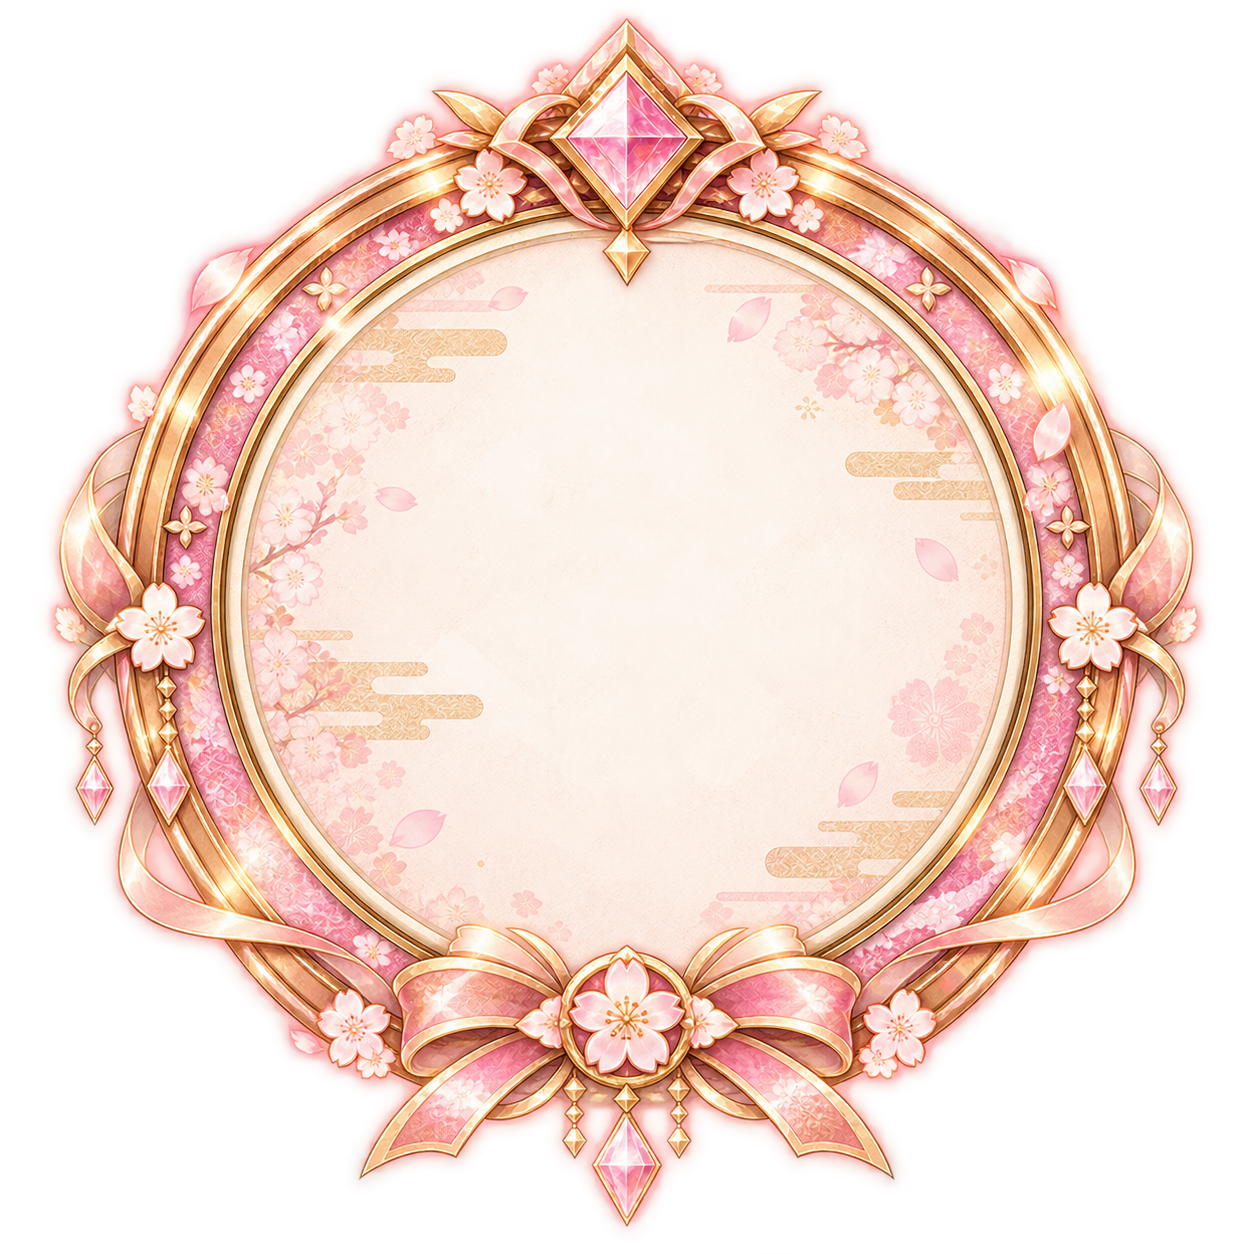
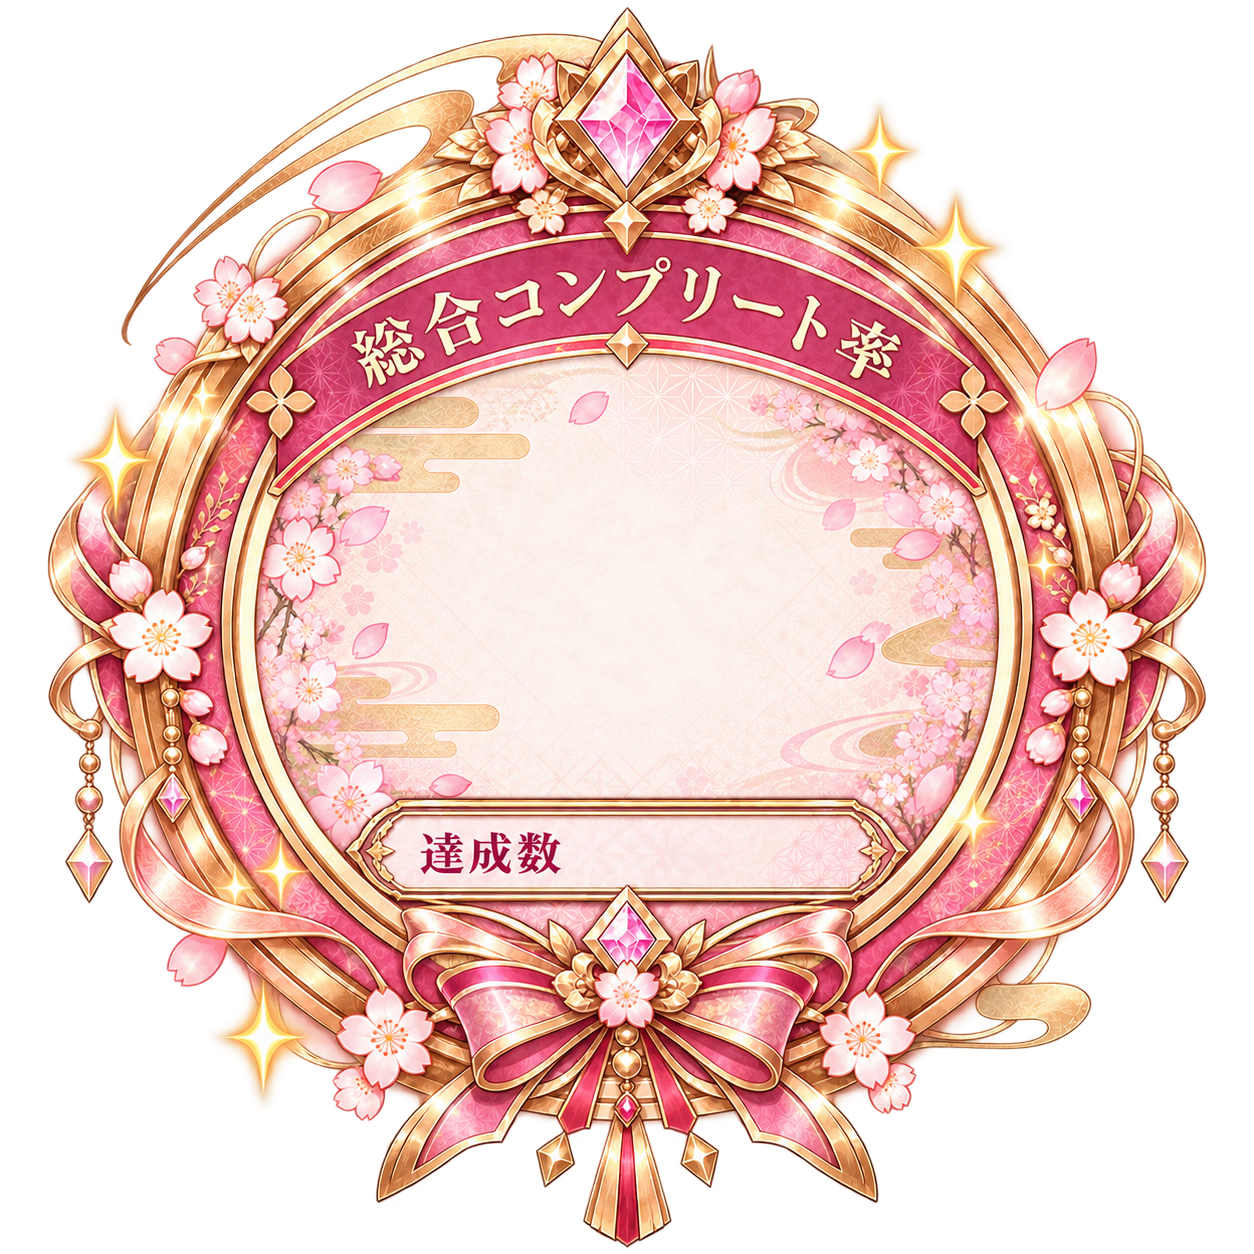
メダルを完成済みPNG+数値のみCanvas合成方式に刷新（4テーマ全て）
新しいメダル枠PNG（「総合コンプリート率」バナー・「達成数」プレートまで
焼き込み済み）に差し替え、Canvas側は総合%の数値と達成数のcompleted/total
だけを重ねる構成に書き換えた。

- SHARE_MEDAL_LAYOUT: メダルPNG基準の正規化座標(0〜1)。%の数値は
  signLeftX（%記号の固定位置）を右端としてtextAlign="right"で描画し、
  桁数が変わっても%の位置が一切動かないようにした（%記号自体もPNGに
  焼き込まれていないため同じ仕組みでCanvas描画）。4テーマ共通の座標
- SHARE_MEDAL_THEMES: テーマごとの数値グラデーション(暗色→金→
  ハイライトの多段階)・縁取り色・影色・達成数の文字色をまとめた設定
- drawGoldNumber(): 外側シャドウ→濃い縁取り→明るい縁取り→グラデーション
  本体→細いハイライト縁取りの順で重ね描きし、参考画像のような立体的な
  金文字を実現
- 旧描画(リボンバナー・「達成数」文字・ラベル)との二重表示を防ぐため、
  drawLabelBanner関数とtheme.bannerColors設定を完全に削除
- drawShareCard()にdata.themeKeyを追加し、document.fonts.readyを
  描画直前に保証（Safari等でのフォント未読込による字形崩れ対策）
- 画像読み込み失敗時は従来のCanvas描画（二重リング等）へのフォール
  バックを維持（意図的に不正なパスを与えて動作確認済み）

0/9/82/100%・達成数0/620〜620/620のテストケースで、%記号の位置が
ピクセル単位で完全に固定されることを確認済み（診断スクリプトで
0〜100%間の差分ピクセルを検証）。
Claude-Session: https://claude.ai/code/session_01K3eMRAeT6oYS9BRu22swvm

diff --git a/js/share-card.js b/js/share-card.js
@@ -58,7 +58,7 @@ const SHARE_THEME_TOKENS = {
 // 未設定（null）のテーマは従来通りtheme.panel（生成り）のままになる
 const SHARE_MEDAL_DISC_DEFAULT = {
   medalDisc: null, medalPercentColor: null, medalLabelColor: null, medalDoneColor: null,
-  medalFrame: null, bannerColors: null,
+  medalFrame: null,
 };
 const SHARE_THEMES = {
   navyGold: {
@@ -79,8 +79,6 @@ const SHARE_THEMES = {
     // メダルの固定装飾（二重リング・宝石・リボン）をPNGフレームに置き換える版。
     // 読み込みに失敗した場合はnull扱いとなり、上のmedalDisc設定によるCanvas描画にフォールバックする
     medalFrame: "assets/share-ui/medal-frame_navy-gold.png",
-    // 「総合コンプリート率」ラベルを乗せるリボンバナーの配色（赤系）
-    bannerColors: { from: "#d97b5c", to: "#a8412c", stroke: "#7a3320" },
     ...SHARE_THEME_TOKENS,
   },
   sakuraPink: {
@@ -305,6 +303,132 @@ const shareMedalFrameCache = new Map(); // key: themeKey -> Promise<HTMLImageEle
 
 // メダル中央の生成り円の位置・半径（フレーム画像の一辺に対する比率。全テーマ共通の構図）
 const MEDAL_FRAME_CIRCLE = { cx: 0.4753, cy: 0.4896, r: 0.2967 };
+
+// メダルPNG（drawImageで敷いた矩形＝frameX/frameY/drawW/drawH）を基準にした
+// 0〜1の正規化座標。「総合コンプリート率」「%」「達成数」の文字はPNG側に
+// 焼き込み済みのため、Canvasは数値だけをこの座標へ重ねる。4テーマとも
+// PNGの構図（円・バナー・達成数プレートの位置）が共通なため、座標もテーマ間で共通
+const SHARE_MEDAL_LAYOUT = {
+  percentage: {
+    // "%"はPNGに焼き込まれていないため、Canvas側で固定位置に描画する。
+    // signLeftXは"%"の左端（常に固定）。数値はここを右端としてtextAlign="right"で
+    // 左方向へ伸ばすため、桁数が変わっても%の位置は動かない
+    signLeftX: 0.615,
+    baselineY: 0.512,
+    fontSizeRatio: 0.185,
+    signFontSizeRatio: 0.115,
+    gapRatio: 0.01,
+  },
+  achievement: {
+    // "達成数"の文字と専用プレートはPNG側。空欄部分の中央にcompleted / totalを重ねる
+    centerX: 0.598,
+    baselineY: 0.678,
+    fontSizeRatio: 0.044,
+  },
+};
+
+// メダル数値の金属グラデーション・縁取り・達成数の文字色をテーマごとにまとめた設定。
+// 座標・fontSizeはSHARE_MEDAL_LAYOUTで共通のため、ここではテーマごとの色だけを持つ
+const SHARE_MEDAL_THEMES = {
+  navyGold: {
+    numberGradient: [
+      { stop: 0,    color: "#fffdf0" },
+      { stop: 0.25, color: "#fff3b0" },
+      { stop: 0.5,  color: "#f7d36d" },
+      { stop: 0.75, color: "#e4aa35" },
+      { stop: 0.9,  color: "#fff0a0" },
+      { stop: 1,    color: "#b97819" },
+    ],
+    strokeDark: "#7d4810",
+    strokeLight: "#e4ad3e",
+    highlightStroke: "rgba(255,255,230,0.75)",
+    shadowColor: "rgba(70,35,5,0.65)",
+    achievementColor: "#f2e9d3", // 生成り〜淡い金
+  },
+  sakuraPink: {
+    numberGradient: [
+      { stop: 0,    color: "#fff7f5" },
+      { stop: 0.25, color: "#ffd9c9" },
+      { stop: 0.5,  color: "#f0ac8f" },
+      { stop: 0.75, color: "#d97b5c" },
+      { stop: 0.9,  color: "#ffe3d0" },
+      { stop: 1,    color: "#a8543c" },
+    ],
+    strokeDark: "#7a3320",
+    strokeLight: "#e88a5e",
+    highlightStroke: "rgba(255,240,235,0.8)",
+    shadowColor: "rgba(90,30,15,0.55)",
+    achievementColor: "#7a1f3d", // 濃いローズピンク〜赤紫
+  },
+  skyBlue: {
+    numberGradient: [
+      { stop: 0,    color: "#ffffff" },
+      { stop: 0.25, color: "#eef6fb" },
+      { stop: 0.5,  color: "#cfe3ee" },
+      { stop: 0.75, color: "#9db8c8" },
+      { stop: 0.9,  color: "#f5fafd" },
+      { stop: 1,    color: "#7a95a5" },
+    ],
+    strokeDark: "#5a7080",
+    strokeLight: "#cfe0ea",
+    highlightStroke: "rgba(255,255,255,0.85)",
+    shadowColor: "rgba(40,60,75,0.5)",
+    achievementColor: "#1f4d6b", // 濃い青
+  },
+  forestGreen: {
+    numberGradient: [
+      { stop: 0,    color: "#fffbe8" },
+      { stop: 0.25, color: "#f2e2a0" },
+      { stop: 0.5,  color: "#d8b768" },
+      { stop: 0.75, color: "#a8823c" },
+      { stop: 0.9,  color: "#f5e8b0" },
+      { stop: 1,    color: "#7a5c26" },
+    ],
+    strokeDark: "#5c4318",
+    strokeLight: "#c9a34e",
+    highlightStroke: "rgba(255,250,220,0.75)",
+    shadowColor: "rgba(50,35,5,0.6)",
+    achievementColor: "#f2e9d3", // 生成り〜淡い金
+  },
+};
+
+// SSRカード風の立体的な金文字を描画する（外側シャドウ→濃い縁取り→明るい縁取り→
+// グラデーション本体→細いハイライト縁取り、の順で重ね描き）。%記号にも同じ関数を使う
+function drawGoldNumber(ctx, text, x, y, fontSizePx, align, mt) {
+  ctx.save();
+  ctx.textAlign = align;
+  ctx.textBaseline = "alphabetic";
+  ctx.font = `700 ${Math.round(fontSizePx)}px ${SERIF}`;
+  ctx.lineJoin = "round";
+
+  // ①外側シャドウ＋②濃い金の外縁
+  ctx.shadowColor = mt.shadowColor;
+  ctx.shadowBlur = fontSizePx * 0.09;
+  ctx.shadowOffsetY = fontSizePx * 0.03;
+  ctx.strokeStyle = mt.strokeDark;
+  ctx.lineWidth = fontSizePx * 0.13;
+  ctx.strokeText(text, x, y);
+
+  // ③明るい金の内縁（影は不要なので消す）
+  ctx.shadowColor = "transparent";
+  ctx.shadowBlur = 0;
+  ctx.strokeStyle = mt.strokeLight;
+  ctx.lineWidth = fontSizePx * 0.06;
+  ctx.strokeText(text, x, y);
+
+  // ④本体（縦グラデーション）
+  const grad = ctx.createLinearGradient(x, y - fontSizePx * 0.78, x, y + fontSizePx * 0.12);
+  mt.numberGradient.forEach(g => grad.addColorStop(g.stop, g.color));
+  ctx.fillStyle = grad;
+  ctx.fillText(text, x, y);
+
+  // ⑤細い白金ハイライト
+  ctx.strokeStyle = mt.highlightStroke;
+  ctx.lineWidth = Math.max(1, fontSizePx * 0.012);
+  ctx.strokeText(text, x, y);
+
+  ctx.restore();
+}
 
 function getThemeMedalFrameImage(themeKey) {
   const src = SHARE_THEMES[themeKey].medalFrame;
@@ -813,45 +937,6 @@ function drawRibbonBow(ctx, cx, cy, scale, theme) {
   ctx.restore();
 }
 
-// リング上部を横切るリボン状のバナー（両端が旗のように尖った六角形）。
-// ラベル文字を白で重ね、平面的にならないよう軽いグラデーション+縁取り+影を付ける
-function drawLabelBanner(ctx, cx, cy, w, h, colors, text, fontPx) {
-  const tail = h * 0.55;
-  ctx.save();
-  ctx.translate(cx, cy);
-
-  ctx.save();
-  ctx.shadowColor = "rgba(0,0,0,0.25)";
-  ctx.shadowBlur = 4;
-  ctx.shadowOffsetY = 2;
-  const grad = ctx.createLinearGradient(0, -h / 2, 0, h / 2);
-  grad.addColorStop(0, colors.from);
-  grad.addColorStop(1, colors.to);
-  ctx.fillStyle = grad;
-  ctx.beginPath();
-  ctx.moveTo(-w / 2 - tail, 0);
-  ctx.lineTo(-w / 2, -h / 2);
-  ctx.lineTo(w / 2, -h / 2);
-  ctx.lineTo(w / 2 + tail, 0);
-  ctx.lineTo(w / 2, h / 2);
-  ctx.lineTo(-w / 2, h / 2);
-  ctx.closePath();
-  ctx.fill();
-  ctx.restore();
-
-  ctx.lineWidth = 1.4;
-  ctx.strokeStyle = colors.stroke;
-  ctx.stroke();
-
-  ctx.textAlign = "center";
-  ctx.fillStyle = "#fffaf0";
-  ctx.font = `500 ${fontPx}px ${SERIF}`;
-  ctx.letterSpacing = "1px";
-  ctx.fillText(text, 0, fontPx * 0.35);
-  ctx.letterSpacing = "0px";
-  ctx.restore();
-}
-
 // メダルの高さは描画側と完全に一致させるため、この計算式を単一の
 // 情報源としてdrawMedalCoreの戻り値・SHARE_SECTIONS.medal.height・
 // medalLargeHeight()の全てから呼び出す
@@ -868,7 +953,7 @@ function medalFrameCoreHeight(radius) {
   return naturalSpan + 60 * scale;
 }
 
-function drawMedalCore(ctx, cx, topY, radius, theme, data, bannerYRatio = 0.97) {
+function drawMedalCore(ctx, cx, topY, radius, theme, data) {
   const scale = radius / MEDAL_R;
   const totalAll = data.stats.total + data.stats.foodTotal + data.stats.gardenTotal;
   const doneAll  = data.stats.done  + data.stats.foodDone  + data.stats.gardenDone;
@@ -876,8 +961,9 @@ function drawMedalCore(ctx, cx, topY, radius, theme, data, bannerYRatio = 0.97) 
   const medalCy  = topY + radius;
   const hasDisc  = !!theme.medalDisc;
 
-  // フレーム画像モード：固定装飾（二重リング・宝石・リボン）はPNG任せにして、
-  // Canvasは中央の生成り円に重ねる可変情報（%・ラベル・達成数）のみ描画する。
+  // フレーム画像モード：固定UI（二重リング・宝石・リボン・「総合コンプリート率」
+  // バナー・「達成数」プレートまで全てPNGに焼き込み済み）はdrawImageで配置するだけにし、
+  // Canvasはユーザーごとに変わる数値（%の数字・達成数のcompleted/total）だけを重ねる。
   // 画像は上部の宝石・下部のリボンが中央円から大きくはみ出す構図のため、
   // topYは（円の上端ではなく）「画像そのものの上端」として扱う
   if (data.medalFrameImg) {
@@ -887,8 +973,9 @@ function drawMedalCore(ctx, cx, topY, radius, theme, data, bannerYRatio = 0.97) 
     const drawH = img.naturalHeight * drawScale;
     const frameX = cx - img.naturalWidth * MEDAL_FRAME_CIRCLE.cx * drawScale;
     const frameY = topY;
-    const medalCy = frameY + img.naturalHeight * MEDAL_FRAME_CIRCLE.cy * drawScale;
 
+    // 1) シェア画像背景（drawShareBackgroundで描画済み）
+    // 2) メダル透過PNG
     ctx.save();
     ctx.shadowColor = "rgba(20,15,5,0.3)";
     ctx.shadowBlur = 16 * scale;
@@ -896,64 +983,31 @@ function drawMedalCore(ctx, cx, topY, radius, theme, data, bannerYRatio = 0.97) 
     ctx.drawImage(img, frameX, frameY, drawW, drawH);
     ctx.restore();
 
+    const mt = SHARE_MEDAL_THEMES[data.themeKey] || SHARE_MEDAL_THEMES.navyGold;
+    const L = SHARE_MEDAL_LAYOUT;
+
+    // 3) 総合コンプリート率の数値（"%"はPNGに無いためCanvasで固定位置に描画し、
+    // 数値はその左側にtextAlign="right"で伸ばす＝%の位置は桁数が変わっても動かない）
+    const percentBaselineY = frameY + drawH * L.percentage.baselineY;
+    const signLeftX = frameX + drawW * L.percentage.signLeftX;
+    const percentFontPx = drawW * L.percentage.fontSizeRatio;
+    const signFontPx = drawW * L.percentage.signFontSizeRatio;
+    const gapPx = drawW * L.percentage.gapRatio;
+
+    drawGoldNumber(ctx, String(totalPct), signLeftX - gapPx, percentBaselineY, percentFontPx, "right", mt);
+    drawGoldNumber(ctx, "%", signLeftX, percentBaselineY, signFontPx, "left", mt);
+
+    // 4) 達成数の数値（"達成数"の文字・プレートはPNG側。空欄部分に中央揃えで重ねる）
+    const achievementText = `${doneAll} / ${totalAll}`;
+    const achievementFontPx = drawW * L.achievement.fontSizeRatio;
+    const achievementCenterX = frameX + drawW * L.achievement.centerX;
+    const achievementBaselineY = frameY + drawH * L.achievement.baselineY;
+    ctx.save();
     ctx.textAlign = "center";
-    const useBanner = !!theme.bannerColors;
-    const pctY = useBanner ? medalCy + 14 * scale : medalCy + 10 * scale;
-    const pctFontPx = Math.round(68 * scale);
-    const pctText = `${totalPct}%`;
-    ctx.font = `700 ${pctFontPx}px ${SERIF}`;
-
-    if (useBanner) {
-      // 金のグラデーション＋濃い縁取り＋軽い光彩で、金属に浮き出た文字のような立体感を出す
-      ctx.save();
-      ctx.lineJoin = "round";
-      ctx.shadowColor = "rgba(80,50,10,0.5)";
-      ctx.shadowBlur = 6 * scale;
-      ctx.shadowOffsetY = 2 * scale;
-      ctx.lineWidth = Math.max(2.5, 4 * scale);
-      ctx.strokeStyle = "#4a2f14";
-      ctx.strokeText(pctText, cx, pctY);
-      ctx.restore();
-
-      const pctGrad = ctx.createLinearGradient(cx, pctY - pctFontPx * 0.78, cx, pctY + pctFontPx * 0.12);
-      pctGrad.addColorStop(0, "#8a6633");
-      pctGrad.addColorStop(0.45, theme.gold);
-      pctGrad.addColorStop(0.8, theme.goldLight);
-      pctGrad.addColorStop(1, theme.goldHighlight);
-      ctx.fillStyle = pctGrad;
-      ctx.fillText(pctText, cx, pctY);
-    } else {
-      ctx.save();
-      ctx.shadowColor = "rgba(0,0,0,0.15)";
-      ctx.shadowBlur = 3 * scale;
-      ctx.fillStyle = theme.vermillion;
-      ctx.fillText(pctText, cx, pctY);
-      ctx.restore();
-    }
-
-    const bannerFontPx = Math.round(15 * scale);
-    const bannerText = "総合コンプリート率";
-    if (useBanner) {
-      ctx.font = `500 ${bannerFontPx}px ${SERIF}`;
-      const bannerW = ctx.measureText(bannerText).width + 32 * scale;
-      const bannerH = 24 * scale;
-      // リングの外周ラインに串刺しになるよう、盤面の内側ではなくリング上端付近に重ねる。
-      // 比率(bannerYRatio)は呼び出し元のメダルサイズごとに調整し、小さいメダルでは
-      // 上部の宝石飾りと衝突しないよう少し低めに配置する
-      const bannerY = medalCy - radius * bannerYRatio;
-      drawLabelBanner(ctx, cx, bannerY, bannerW, bannerH, theme.bannerColors, bannerText, bannerFontPx);
-    } else {
-      ctx.save();
-      ctx.fillStyle = theme.inkSub;
-      ctx.font = `500 ${bannerFontPx}px ${SERIF}`;
-      ctx.letterSpacing = `${1.5 * scale}px`;
-      ctx.fillText(bannerText, cx, medalCy + 40 * scale);
-      ctx.restore();
-    }
-
-    ctx.fillStyle = theme.ink;
-    ctx.font = `700 ${Math.round(14 * scale)}px sans-serif`;
-    ctx.fillText(`達成数  ${doneAll} / ${totalAll}`, cx, medalCy + 64 * scale);
+    ctx.font = `700 ${Math.round(achievementFontPx)}px ${SERIF}`;
+    ctx.fillStyle = mt.achievementColor;
+    ctx.fillText(achievementText, achievementCenterX, achievementBaselineY);
+    ctx.restore();
 
     // 注記はリボン飾りが円の外に大きくはみ出す分、フレーム画像の実際の下端を基準に配置する。
     // 横長は縮尺が大きくリボン下端の装飾（吊り下げ宝石）に接近しやすいため、余白を広めに取る。
@@ -1079,15 +1133,13 @@ function drawMedalCore(ctx, cx, topY, radius, theme, data, bannerYRatio = 0.97) 
 }
 
 function drawMedalSection(ctx, x, y, w, theme, data) {
-  // 縦長は半径が小さくバナー幅に対してリングの余白が狭いため、宝石飾りに
-  // かからないよう比率を下げて少し低めに配置する
-  return drawMedalCore(ctx, x + w / 2, y, MEDAL_R, theme, data, 0.76);
+  return drawMedalCore(ctx, x + w / 2, y, MEDAL_R, theme, data);
 }
 
 // 横長レイアウトの中央カラム用（大きめのメダル）
 const MEDAL_LARGE_R = 199;
 function drawMedalLargeSection(ctx, x, y, w, theme, data) {
-  return drawMedalCore(ctx, x + w / 2, y, MEDAL_LARGE_R, theme, data, 0.97);
+  return drawMedalCore(ctx, x + w / 2, y, MEDAL_LARGE_R, theme, data);
 }
 function medalLargeHeight(data) {
   return data && data.medalFrameImg ? medalFrameCoreHeight(MEDAL_LARGE_R) : medalCoreHeight(MEDAL_LARGE_R);
@@ -1311,7 +1363,7 @@ async function drawShareCard() {
   const layoutKey = currentShareLayout;
   const theme = SHARE_THEMES[themeKey];
   const layout = SHARE_LAYOUTS[layoutKey];
-  const data = { stats, categories: mapCategoryStats(stats), profile: shareProfileDraft };
+  const data = { stats, categories: mapCategoryStats(stats), profile: shareProfileDraft, themeKey };
 
   // 背景画像はテーマ×レイアウトの組み合わせごとに初回だけ読み込み、以後はキャッシュを再利用する。
   // 未読み込みの組み合わせだけモーダル内にスピナーを出す（キャッシュ済みなら一瞬で解決するので出さない）
@@ -1324,6 +1376,9 @@ async function drawShareCard() {
   ]);
   if (!alreadyCached) showShareCardLoading(false);
   data.medalFrameImg = medalFrameImg;
+  // メダルの巨大な金文字はShippori Minchoが未読込のまま描画されると
+  // フォールバック体になってしまうため、描画直前にフォント読み込み完了を保証する
+  try { await document.fonts.ready; } catch (e) { /* Safari等で失敗しても致命的ではないため無視 */ }
 
   const w = layout.w;
   const h = layout.h;

diff --git a/service-worker.js b/service-worker.js
@@ -1,5 +1,5 @@
 // キャッシュ名（更新時はバージョンを上げる）
-const CACHE_NAME = "hatopi-v2.399.0";
+const CACHE_NAME = "hatopi-v2.400.0";
 
 // キャッシュするファイル一覧
 const CACHE_FILES = [
